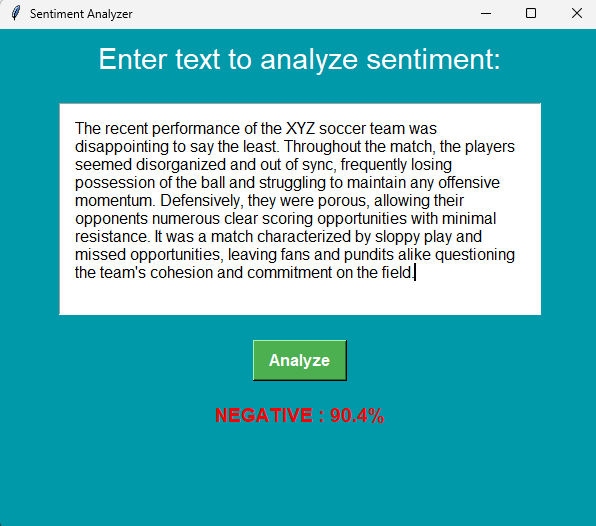
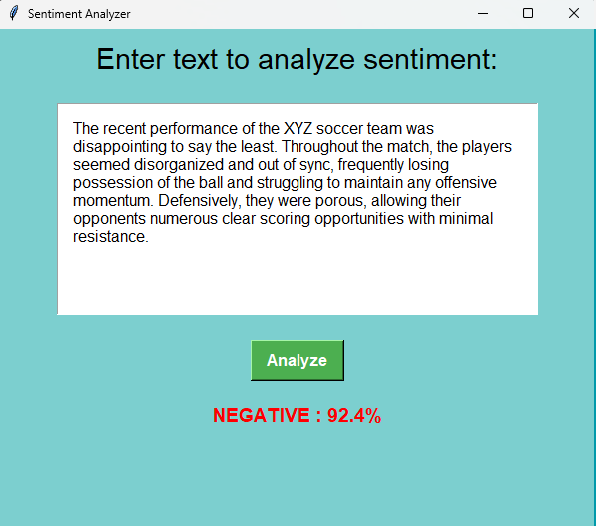
Change UI background color

diff --git a/sentiment_analysis.py b/sentiment_analysis.py
@@ -8,7 +8,7 @@ from model import *
 device = "cuda:0" if torch.cuda.is_available() else "cpu"
 tokenizer, model = get_fine_tuned_model("fine_tuned_model", device = device)
 
-bg_color = "#0099AA"
+bg_color = "#7CCFCF"
 
 
 # Function to analyze the sentiment (for demo purposes, it randomly decides positive or negative)
@@ -36,7 +36,7 @@ root.geometry("600x500")
 root.configure(bg=bg_color)
 
 # Create a label for instructions
-instruction_label = tk.Label(root, text="Enter text to analyze sentiment:", bg=bg_color, fg="white", font=("Arial", 22))
+instruction_label = tk.Label(root, text="Enter text to analyze sentiment:", bg=bg_color, fg="black", font=("Arial", 22))
 instruction_label.pack(pady=10)
 
 # Create a text box for user input
